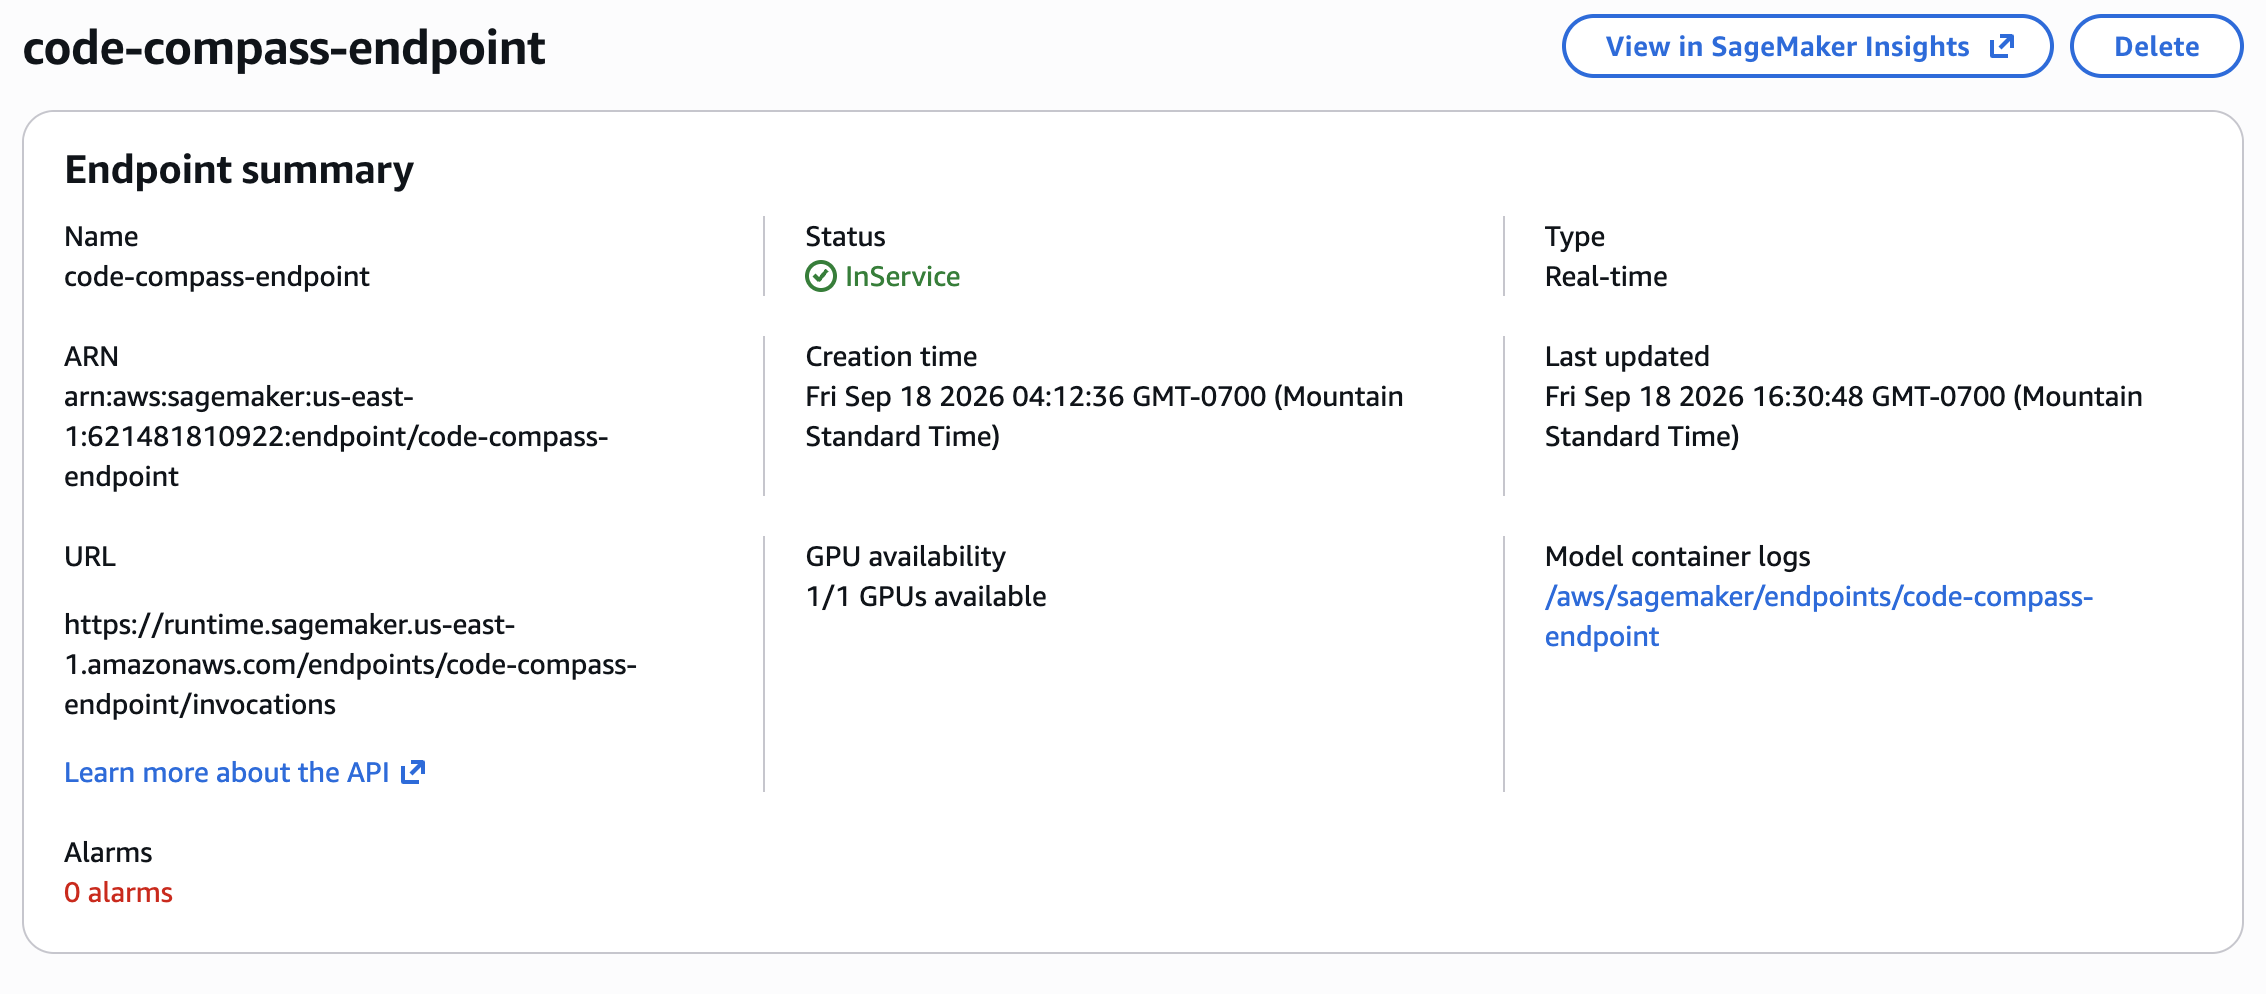
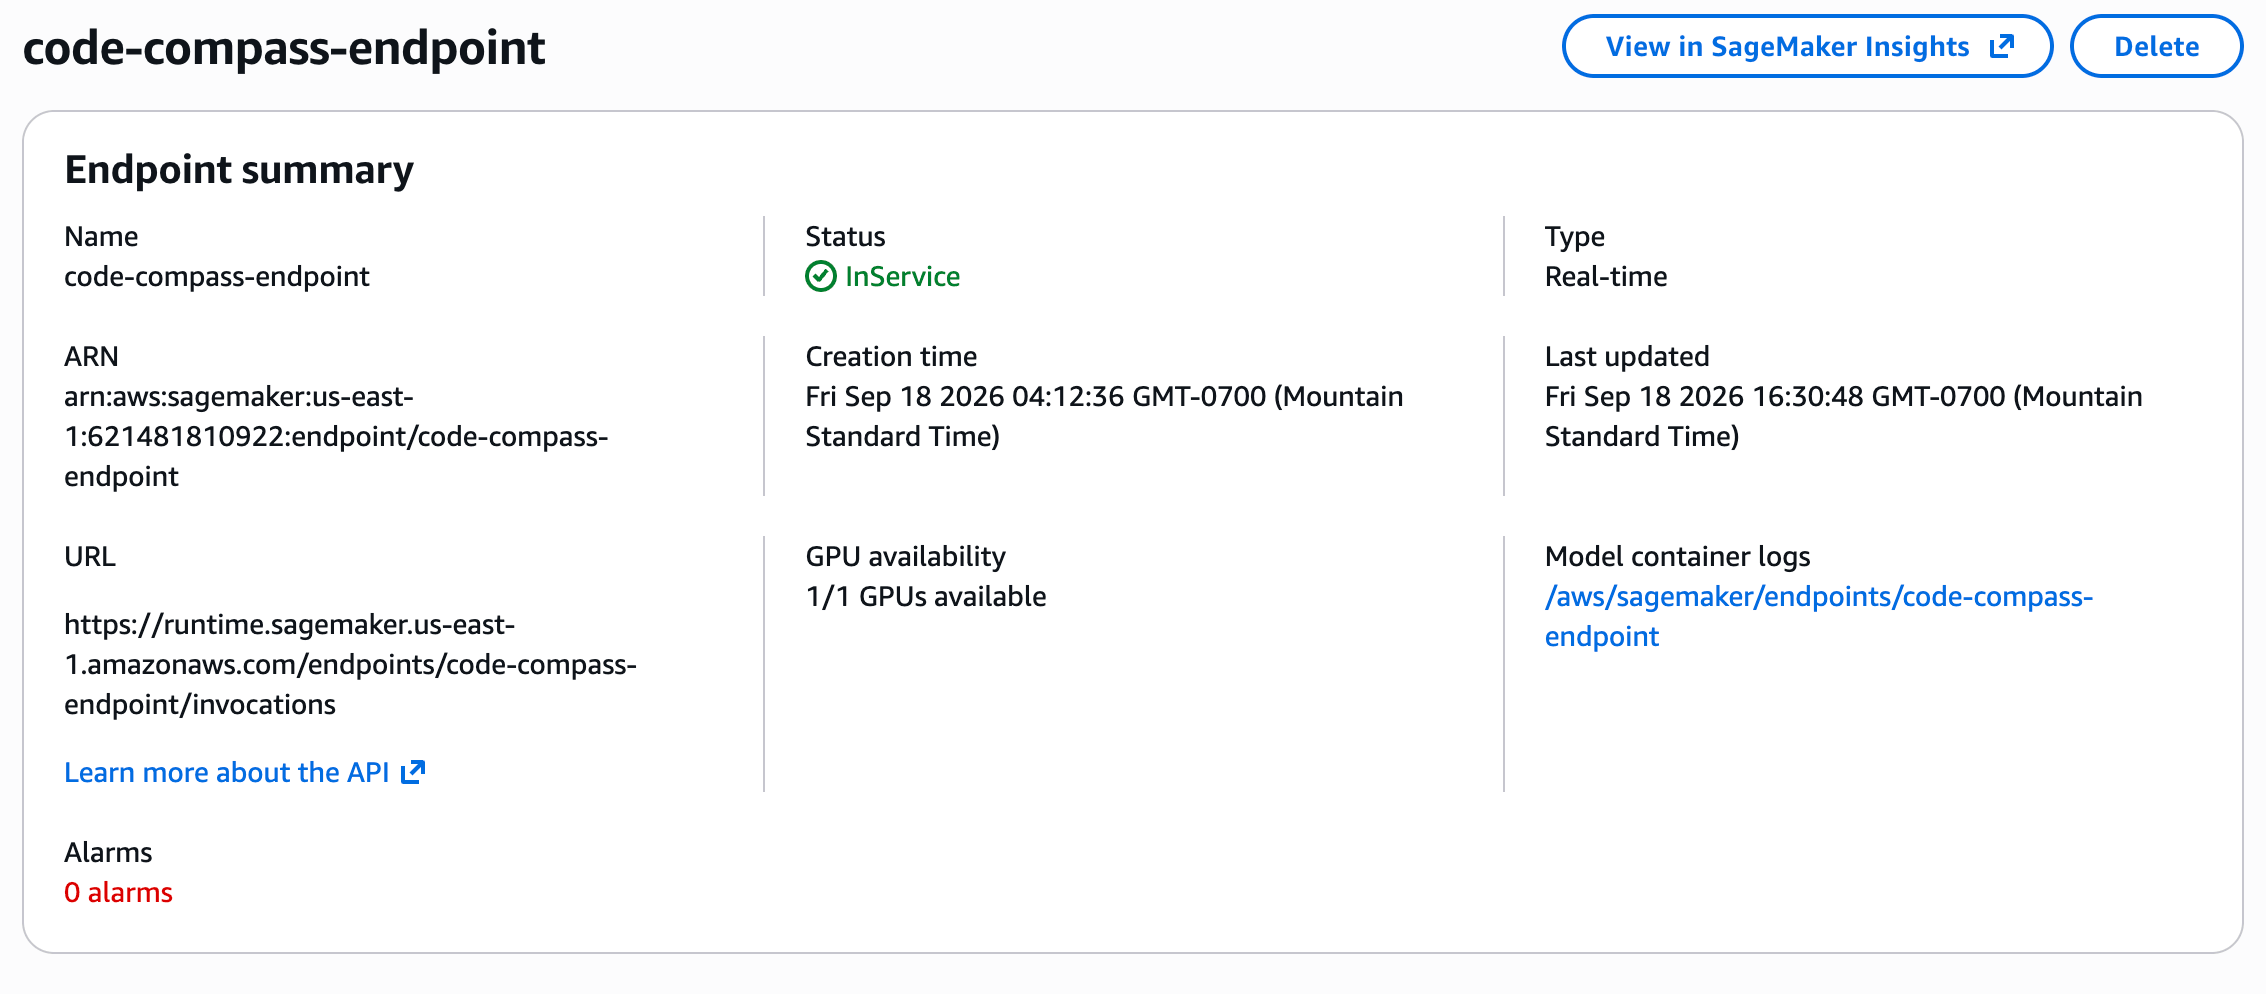
update readme

diff --git a/README.md b/README.md
@@ -4,7 +4,16 @@
 
 Code Compass v1.0.0 is a full-stack codebase RAG system for exploring public GitHub repositories. It builds a code-aware index, retrieves and reranks the most relevant evidence, and produces concise answers with validated file and line-level citations.
 
-![Code Compass repository selection screen](images/landing.png)
+![Code Compass repository selection screen](images/landing.webp)
+
+![Code Compass chat example 1](images/chat1.webp)
+
+<table>
+  <tr>
+    <td><img src="images/chat2.webp" alt="Code Compass chat example 2"></td>
+    <td><img src="images/chat3.webp" alt="Code Compass chat example 3"></td>
+  </tr>
+</table>
 
 ## The problem
 
@@ -18,7 +27,7 @@ For an answer to be useful, retrieval must surface the actual implementation and
 
 Code Compass combines **code-aware chunking**, **hybrid retrieval**, **model-based reranking**, and **grounded generation**. It returns answers with validated citations so a developer can move directly from an explanation to the supporting source.
 
-## Architecture
+## System Architecture
 
 ```text
 Browser
@@ -38,6 +47,37 @@ The backend clones and parses a public repository, stores reusable embeddings in
 
 ## Engineering highlights
 
+```text
+GitHub Repository
+    │
+    ▼
+Clone + Parse
+    │
+    ├──► Tree-sitter Chunks ──► Qwen3 Embedding ──► Qdrant Cloud
+    │
+    └──► BM25 Index
+
+Developer Question
+    │
+    ▼
+Intent Detection + Query Expansion
+    │
+    ▼
+Hybrid Retrieval ◄── Qdrant Cloud + BM25
+    │
+    ▼
+Qwen3 Reranker
+    │
+    ▼
+Evidence Selection
+    │
+    ▼
+Qwen3-Coder-Next on Amazon Bedrock
+    │
+    ▼
+Grounded Answer + File and Line Citations
+```
+
 ### Code-aware indexing
 
 Tree-sitter chunks source around functions, classes, methods, and declarations. Module overviews preserve file-level context, while bounded fallback chunking handles documentation and unsupported languages.
@@ -50,15 +90,13 @@ Semantic search, BM25, path and intent signals, and Reciprocal Rank Fusion cover
 
 Qdrant stores persistent, branch-aware repository indexes. Re-indexing builds a hidden generation and activates it atomically, so a failed rebuild cannot replace the last working cache.
 
-### GPU inference on SageMaker
+### GPU inference and CUDA compatibility
 
 Qwen3-Embedding-0.6B and Qwen3-Reranker-0.6B run together on one GPU endpoint. Batched inference improves throughput while a single worker preserves the application’s process-local session and lexical state.
 
-### CUDA compatibility debugging
+The container is based on the official PyTorch CUDA runtime to keep PyTorch, CUDA, and cuDNN aligned. Runtime startup can require CUDA explicitly and fails fast instead of silently falling back to CPU.
 
-The container is based on the official PyTorch CUDA runtime to keep PyTorch, CUDA, and cuDNN aligned. Production startup can require CUDA explicitly and fails fast instead of silently falling back to CPU.
-
-### CI/CD pipeline
+### CI/CD and local SageMaker parity
 
 ```text
 Unit Tests
@@ -78,21 +116,62 @@ Deploy SageMaker (wait for InService)
 Smoke Test (live invocation + failure diagnostics)
 ```
 
-One workflow exposes five focused jobs connected by `needs`. Every push and pull request runs through unit and parity validation; ECR publishing and deployment are gated to `main` pushes or manual dispatch. The production image stays on one runner while it is built and parity-tested, then the verified image is passed once to the isolated ECR runner as a short-lived artifact. Deployment uses short-lived GitHub OIDC credentials and succeeds only after SageMaker reaches `InService` and serves a real invocation. Failures automatically print the endpoint description, `FailureReason`, and the last 100 events from the newest CloudWatch log stream. The production deployment role therefore needs `sagemaker:InvokeEndpoint`, `logs:DescribeLogStreams`, and `logs:GetLogEvents` in addition to its existing ECR and SageMaker deployment permissions.
+Every pull request runs unit tests and a local SageMaker compatibility test. Deployments to `main` publish the verified image to Amazon ECR, update the SageMaker endpoint using GitHub OIDC, and finish with an automated smoke test.
 
 The same-origin Vercel function exchanges its workload identity for a narrowly scoped AWS role and invokes SageMaker without exposing AWS credentials to the browser. No long-lived AWS access keys are used by either deployment path.
-
-### Local SageMaker parity testing
-
-The local deployment test runs the production image as its non-root user, exercises `/ping`, `/api/health`, and `/invocations`, and prints container logs on failure before an image can be pushed.
 
 ### Structured logging
 
 Every request receives a correlation ID. Runtime logs use only `[startup]`, `[index]`, `[query]`, and `[error]` categories. Routine dependency HTTP traffic and Uvicorn access records are suppressed, while warnings and errors remain visible. Index logs report repository, file/chunk counts, embedding time, and total time; query logs report the question, any rewrite, retrieved-document count, and latency.
 
+## Engineering Challenges
+
+| Challenge                                          | Investigation                                                                                                                                                                                                 | Final Solution                                                                                                                                                                                            |
+| -------------------------------------------------- | ------------------------------------------------------------------------------------------------------------------------------------------------------------------------------------------------------------- | --------------------------------------------------------------------------------------------------------------------------------------------------------------------------------------------------------- |
+| **Repository search answered _where_, not _how_**  | Early answers returned correct implementation details but failed to explain how components interacted. Architecture questions often focused on isolated exception paths instead of the normal execution flow. | Added an **architecture answer mode** that presents execution flow, implementation snippets, design rationale, and related files separately from implementation-focused answers.                          |
+| **Explanations and displayed code drifted apart**  | The LLM explained one implementation while the UI independently selected different code snippets, making answers feel disconnected.                                                                           | Unified evidence selection so explanations and displayed snippets originate from the same repository evidence, improving consistency and grounding.                                                       |
+| **Cross-file workflows were difficult to explain** | Lifecycle questions span multiple files, but the retrieval pipeline favored individual implementation details and could over-emphasize exception paths.                                                       | Improved intent classification and evidence selection so architecture questions follow the normal execution path across multiple files while implementation questions remain focused on specific symbols. |
+
+## Evaluation Repositories
+
+Code Compass was evaluated against **three real-world, unfamiliar open-source repositories** rather than synthetic examples.
+
+| Repository    | Why it was chosen                                                                                                               | Characteristics                                                               |
+| ------------- | ------------------------------------------------------------------------------------------------------------------------------- | ----------------------------------------------------------------------------- |
+| **FastAPI**   | Modern Python web framework with heavy use of dependency injection, routing, validation, and response serialization.            | Medium-sized Python framework, cross-file request lifecycle, API internals.   |
+| **Django**    | Large, mature framework with complex request handling, middleware, ORM, authentication, and templating.                         | Large Python codebase with deep inheritance and cross-module interactions.    |
+| **Documenso** | TypeScript monorepo implementing document signing, authentication, storage, background jobs, and frontend/backend coordination. | Large full-stack monorepo with business workflows spanning multiple services. |
+
+These repositories represent different repository structures, programming languages, and architectural styles, allowing the retrieval pipeline to be evaluated beyond a single framework or coding style.
+
 ## Evaluation
 
-The evaluation suite contains 24 hand-written questions across Documenso, FastAPI, and Django. It reports retrieval-stage metrics and optional model-judged faithfulness. See the [operations guide](docs/deployment.md#evaluation) for commands and methodology.
+- **24 hand-written repository-understanding questions**
+- **8 questions per repository**
+- Questions focused on:
+  - execution flow
+  - implementation lookup
+  - architecture
+  - configuration
+  - authentication
+  - request lifecycle
+  - error handling
+  - cross-file reasoning
+
+Evaluation measures:
+
+- Final-context retrieval hit rate
+- Top-1 retrieval accuracy
+- Mean Reciprocal Rank (MRR)
+- Candidate retrieval hit rate
+- Grounded-answer rate
+- Optional model-judged faithfulness
+
+### Results
+
+| Evaluation set                 | Questions | Retrieval hit rate | Top-1 accuracy |   MRR | Faithfulness |
+| ------------------------------ | --------: | -----------------: | -------------: | ----: | -----------: |
+| FastAPI, Django, and Documenso |        24 |             91.67% |         70.83% | 0.813 |       99.17% |
 
 ## Deployment overview
 
@@ -104,26 +183,26 @@ GitHub ──► GitHub Actions ──► Amazon ECR ──► SageMaker
 React  ──► Vercel ── OIDC / InvokeEndpoint ──────┘
 ```
 
-The deployment uses immutable SageMaker model/config versions, a stable endpoint, non-root containers, health-gated startup, and short-lived OIDC credentials for both CI/CD and runtime invocation. See the [AWS deployment guide](docs/deployment.md) for the serving contract, IAM scope, scripts, configuration, and production tradeoffs.
+The deployment uses immutable SageMaker model/config versions, a stable endpoint, non-root containers, health-gated startup, and short-lived OIDC credentials for both CI/CD and runtime invocation. See the [AWS deployment guide](docs/deployment.md) for the serving contract, IAM scope, scripts, configuration, and deployment tradeoffs.
 
-### Deployment proof
-
-| GitHub Actions | SageMaker |
-|---|---|
+| GitHub Actions                                           | Amazon SageMaker                                      |
+| -------------------------------------------------------- | ----------------------------------------------------- |
 | ![Successful GitHub Actions deployment](images/cicd.png) | ![SageMaker endpoint InService](images/sagemaker.png) |
 
-![Successful Vercel production deployment](images/vercel.png)
+| Amazon CloudWatch                                    | Vercel                                             |
+| ---------------------------------------------------- | -------------------------------------------------- |
+| ![CloudWatch deployment logs](images/cloudwatch.png) | ![Successful Vercel deployment](images/vercel.png) |
 
 ## Tech stack
 
-| Layer | Technology |
-|---|---|
-| Frontend | React 19, Tailwind CSS, Axios, Vercel |
-| API | FastAPI, Pydantic, Uvicorn |
-| Parsing | tree-sitter, symbol-aware and fallback chunking |
-| Retrieval | Qwen3-Embedding-0.6B, BM25, RRF, Qdrant Cloud |
-| Reranking | Qwen3-Reranker-0.6B, PyTorch, Transformers |
-| Generation | Qwen3-Coder-Next on Amazon Bedrock |
+| Layer          | Technology                                         |
+| -------------- | -------------------------------------------------- |
+| Frontend       | React 19, Tailwind CSS, Axios, Vercel              |
+| API            | FastAPI, Pydantic, Uvicorn                         |
+| Parsing        | tree-sitter, symbol-aware and fallback chunking    |
+| Retrieval      | Qwen3-Embedding-0.6B, BM25, RRF, Qdrant Cloud      |
+| Reranking      | Qwen3-Reranker-0.6B, PyTorch, Transformers         |
+| Generation     | Qwen3-Coder-Next on Amazon Bedrock                 |
 | Infrastructure | Docker, Amazon ECR, SageMaker, GitHub Actions OIDC |
 
 ## Local development
@@ -156,6 +235,14 @@ npm start
 
 Open `http://localhost:3000`, submit a public GitHub URL, wait for indexing, and start asking questions. For evaluation commands, API examples, runtime configuration, and AWS deployment, see [docs/deployment.md](docs/deployment.md).
 
-## Current scope
+## Known Limitations
 
-Code Compass supports public repositories and keeps session metadata and BM25 indexes in one process.
+- Supports public GitHub repositories only.
+- Session metadata and BM25 indexes are process-local, so the reference deployment runs as a single SageMaker instance with one worker.
+- Repository indexing is performed on demand; very large repositories take longer to analyze before questions can be answered.
+
+## What I learned
+
+- Measuring retrieval is more valuable than guessing.
+- ML systems fail at deployment boundaries, not only because of model quality.
+- Repository understanding requires architectural reasoning, not just semantic search.

diff --git a/docs/deployment.md b/docs/deployment.md
@@ -1,14 +1,16 @@
-# Code Compass: Operations and Deployment
+# Deployment & Operations Guide
 
 This document covers evaluation, API usage, runtime configuration, the SageMaker serving contract, AWS resources and IAM, deployment workflows, and operational constraints.
 
-## Retrieval and conversation details
+## Retrieval Pipeline
 
-The backend shallow-clones public repositories, ignores generated and dependency directories, and keeps supported source, configuration, markup, and documentation files. Tree-sitter creates chunks around functions, classes, methods, declarations, and containers. Large classes receive overview chunks while their methods remain independently searchable. Each parsed source file also receives a module overview with its path, role, imports, exports, and symbols; plain-text and unsupported-language files use bounded fallback chunking. Clones are deleted after indexing.
+The backend shallow-clones public repositories, excludes generated and dependency directories, and chunks supported files around functions, classes, methods, declarations, and containers. Large classes and source files also receive overview chunks, while plain-text and unsupported-language files use bounded fallback chunking. Clones are deleted after indexing.
 
 Qdrant is both the vector store and persistent repository cache. A canonical repository-and-branch key lets a new session reuse an index. Re-indexing uploads a hidden generation, activates it only after every vector is stored, then removes the previous generation. A failed rebuild leaves the working cache intact.
 
-Each question uses Qwen3 semantic retrieval, BM25, path and intent signals, and Reciprocal Rank Fusion. Controlled over-fetching precedes deduplication so repeated chunks and translated documentation cannot consume the candidate budget. Qwen3-Reranker-0.6B scores candidates with its native `yes`/`no` relevance format; final selection combines semantic, lexical, path, reranker, canonical-source, and diversity signals.
+Each question uses Qwen3 semantic retrieval, BM25, path and intent signals, and Reciprocal Rank Fusion. Candidates are deduplicated, reranked with Qwen3-Reranker-0.6B, and selected using relevance, source quality, and diversity signals.
+
+## Conversation Layer
 
 Before retrieval, the conversation layer routes social messages, rewrites contextual follow-ups into standalone repository questions, and asks for clarification when a reference has no reliable antecedent. Debug responses can include a `conversation_trace` with the original query, standalone rewrite, retrieval query, and final Bedrock prompt. The answer prompt requires concrete files and symbols, evidence/inference separation, inline citations, and an explicit acknowledgement when evidence is insufficient. Citation numbers are validated before the response is returned.
 
@@ -161,18 +163,17 @@ The role needs only `sagemaker:InvokeEndpoint` on this endpoint. Restrict its OI
 
 ## Deploy from a workstation
 
-Prerequisites are Docker, AWS CLI v2, `jq`, `openssl`, and AWS credentials authorized for ECR and SageMaker.
+### Prerequisites
+
+Install Docker, AWS CLI v2, `jq`, and `openssl`, and configure AWS credentials authorized for ECR and SageMaker.
+
+### Environment variables
+
+Load `AWS_REGION`, `ECR_REPOSITORY`, `SAGEMAKER_ENDPOINT_NAME`, `SAGEMAKER_EXECUTION_ROLE_ARN`, `QDRANT_URL`, and `CORS_ORIGINS` into the current shell. Provide either `QDRANT_API_KEY_SECRET_ARN` or `QDRANT_API_KEY`. `SAGEMAKER_INSTANCE_TYPE` defaults to `ml.g5.xlarge`; the remaining runtime options are documented in [Runtime configuration](#runtime-configuration).
+
+### Deploy
 
 ```bash
-export AWS_REGION=us-east-1
-export ECR_REPOSITORY=code-compass-backend
-export SAGEMAKER_ENDPOINT_NAME=code-compass
-export SAGEMAKER_EXECUTION_ROLE_ARN=arn:aws:iam::123456789012:role/code-compass-sagemaker
-export SAGEMAKER_INSTANCE_TYPE=ml.g5.xlarge
-export QDRANT_URL=https://your-cluster.us-east.aws.cloud.qdrant.io:6333
-export QDRANT_API_KEY=your-qdrant-api-key
-export CORS_ORIGINS=https://your-project.vercel.app
-
 ./scripts/test-local-sagemaker.sh
 ./scripts/push.sh
 ./scripts/deploy.sh
@@ -211,26 +212,7 @@ The direct Qdrant key is convenient for a personal deployment, but places it in 
 
 For Vercel, set `AWS_ROLE_ARN`, `SAGEMAKER_AWS_REGION`, and `SAGEMAKER_ENDPOINT_NAME`. Enable OIDC and configure the trust policy. Leave `REACT_APP_API_URL` unset in production so the UI uses the same-origin adapter; set it to `http://localhost:8000` locally.
 
-## Repository layout
-
-```text
-code-compass/
-├── server/
-│   ├── server_app.py             # FastAPI routes and request models
-│   ├── Dockerfile                # SageMaker-compatible image
-│   ├── entrypoint.sh             # Port 8080 and signal-safe startup
-│   ├── evals/                    # Evaluation runner and 24-case suite
-│   ├── src/                      # Parsing, retrieval, storage, orchestration
-│   └── tests/                    # Retrieval and deployment regressions
-├── ui/
-│   ├── api/proxy.js              # OIDC SageMaker invocation adapter
-│   └── src/                      # React application
-├── scripts/                      # Build, test, push, and deployment scripts
-├── .github/workflows/            # OIDC CI/CD workflow
-└── images/                       # Release screenshots
-```
-
-## Operational constraints
+## Known Operational Constraints
 
 - Only public GitHub repositories are supported.
 - Repository metadata, active sessions, and lexical indexes are process-local.
